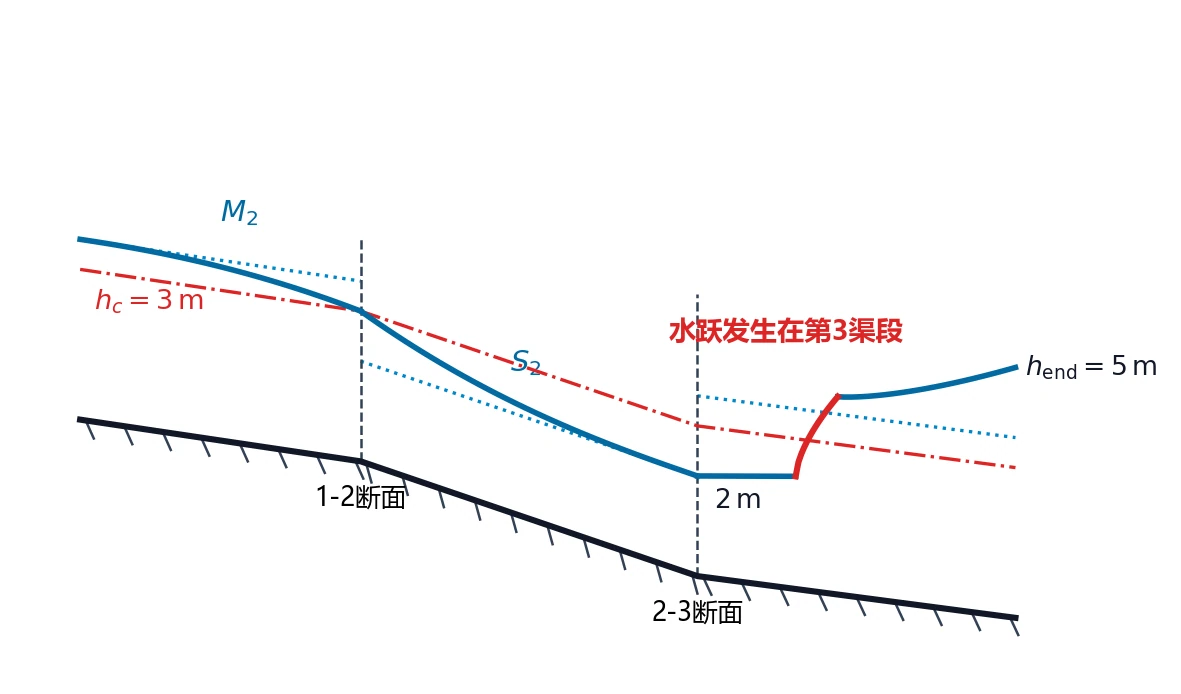
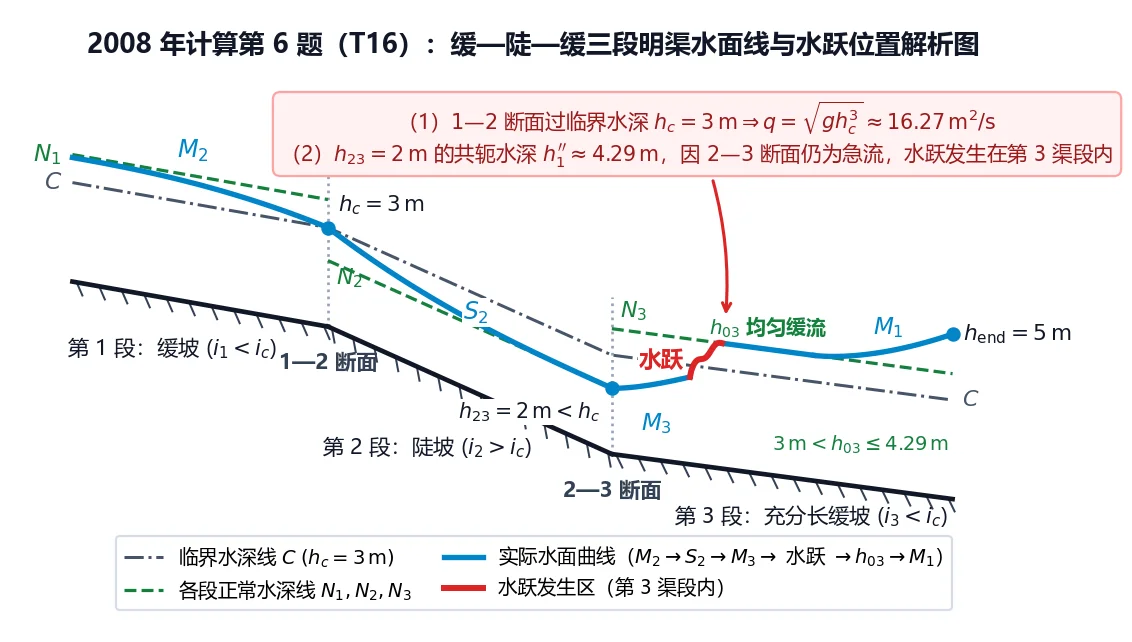
style(hhu-814): 重绘 2008-16 与 2018-25 三段明渠水跃解析示意图

diff --git a/web/public/sw.js b/web/public/sw.js
@@ -1,4 +1,4 @@
-const CACHE_NAME = 'jingyan-multi-v34';
+const CACHE_NAME = 'jingyan-multi-v35';
 const PRECACHE_URLS = [
   './',
   './index.html',
